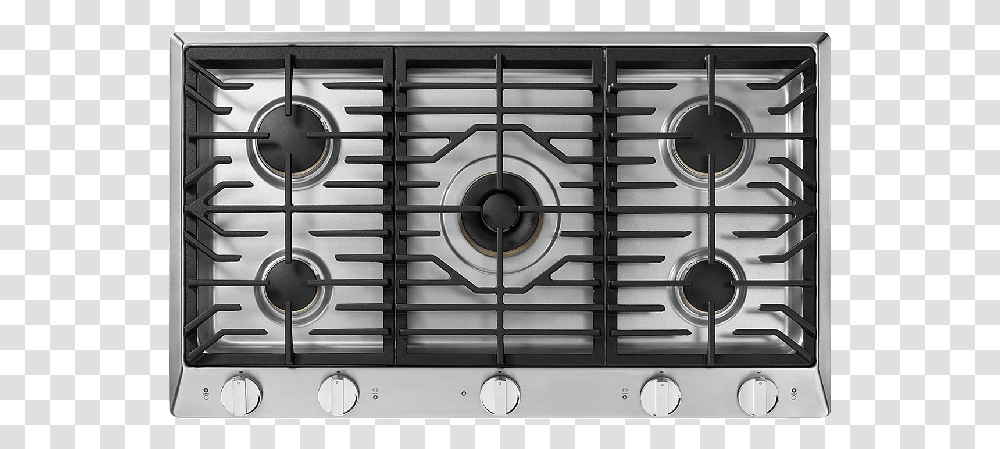
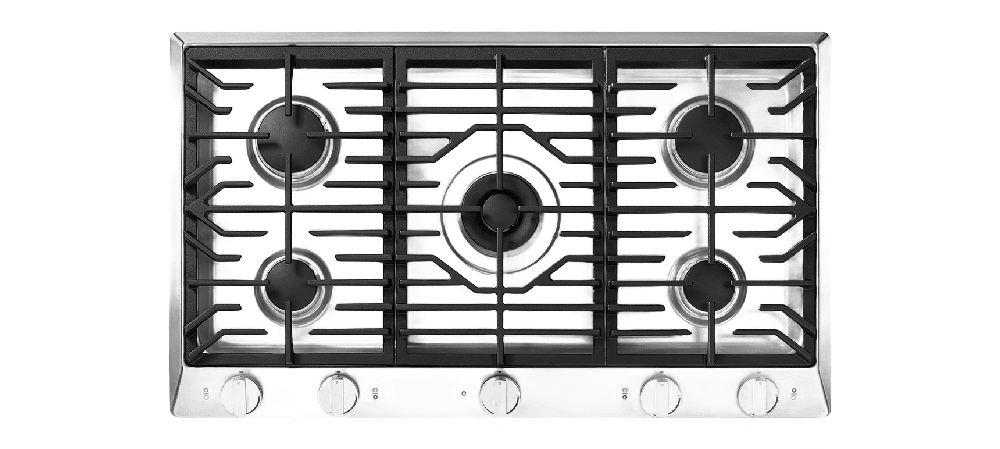
Remove white backgrounds from 5 service images using AI
Processed cooktop, wine-cooler, dryer, dishwasher, hood images with
AI background removal — saved as transparent PNGs so the dark blue
card background shows through instead of white/solid fills.
Updated file references (.jpeg/.jpg → .png) in functions.php and archive.php.

diff --git a/Monogram-repair-theme/archive.php b/Monogram-repair-theme/archive.php
@@ -359,7 +359,7 @@ if ( is_post_type_archive( 'error_code' ) ) :
 
             // Appliance type → local service image
             $brp_appliance_imgs = array(
-                'dishwasher'   => get_template_directory_uri() . '/assets/images/services/dishwasher.jpeg',
+                'dishwasher'   => get_template_directory_uri() . '/assets/images/services/dishwasher.png',
                 'refrigerator' => get_template_directory_uri() . '/assets/images/services/refrigerator.webp',
                 'washer'       => get_template_directory_uri() . '/assets/images/services/washer.jpg',
                 'dryer'        => get_template_directory_uri() . '/assets/images/services/dryer.png',
@@ -367,8 +367,8 @@ if ( is_post_type_archive( 'error_code' ) ) :
                 'cooktop'      => get_template_directory_uri() . '/assets/images/services/cooktop.png',
                 'microwave'    => get_template_directory_uri() . '/assets/images/services/microwave.png',
                 'freezer'      => get_template_directory_uri() . '/assets/images/services/freezer.png',
-                'wine-cooler'  => get_template_directory_uri() . '/assets/images/services/wine-cooler.jpg',
-                'hood'         => get_template_directory_uri() . '/assets/images/services/hood.jpg',
+                'wine-cooler'  => get_template_directory_uri() . '/assets/images/services/wine-cooler.png',
+                'hood'         => get_template_directory_uri() . '/assets/images/services/hood.png',
             );
             $brp_img_fallback = get_template_directory_uri() . '/assets/images/services/oven.png';
 

diff --git a/Monogram-repair-theme/functions.php b/Monogram-repair-theme/functions.php
@@ -1052,7 +1052,7 @@ function brp_get_services() {
             'title' => 'Monogram Dishwasher Repair',
             'icon'  => '🍽',
             'desc'  => 'Monogram dishwasher not draining, leaking, or cleaning? We diagnose and fix it fast.',
-            'image' => 'dishwasher.jpeg',
+            'image' => 'dishwasher.png',
         ),
         array(
             'slug'  => 'monogram-dryer-repair',
@@ -1066,14 +1066,14 @@ function brp_get_services() {
             'title' => 'Monogram Wine Cooler Repair',
             'icon'  => '🍷',
             'desc'  => 'Monogram wine cooler not cooling or showing errors? We restore optimal temperature control.',
-            'image' => 'wine-cooler.jpg',
+            'image' => 'wine-cooler.png',
         ),
         array(
             'slug'  => 'monogram-hood-repair',
             'title' => 'Monogram Hood Repair',
             'icon'  => '💨',
             'desc'  => 'Monogram ventilation hood and range hood repair — blower motors, lighting, controls.',
-            'image' => 'hood.jpg',
+            'image' => 'hood.png',
         ),
         array(
             'slug'  => 'monogram-washer-repair',
